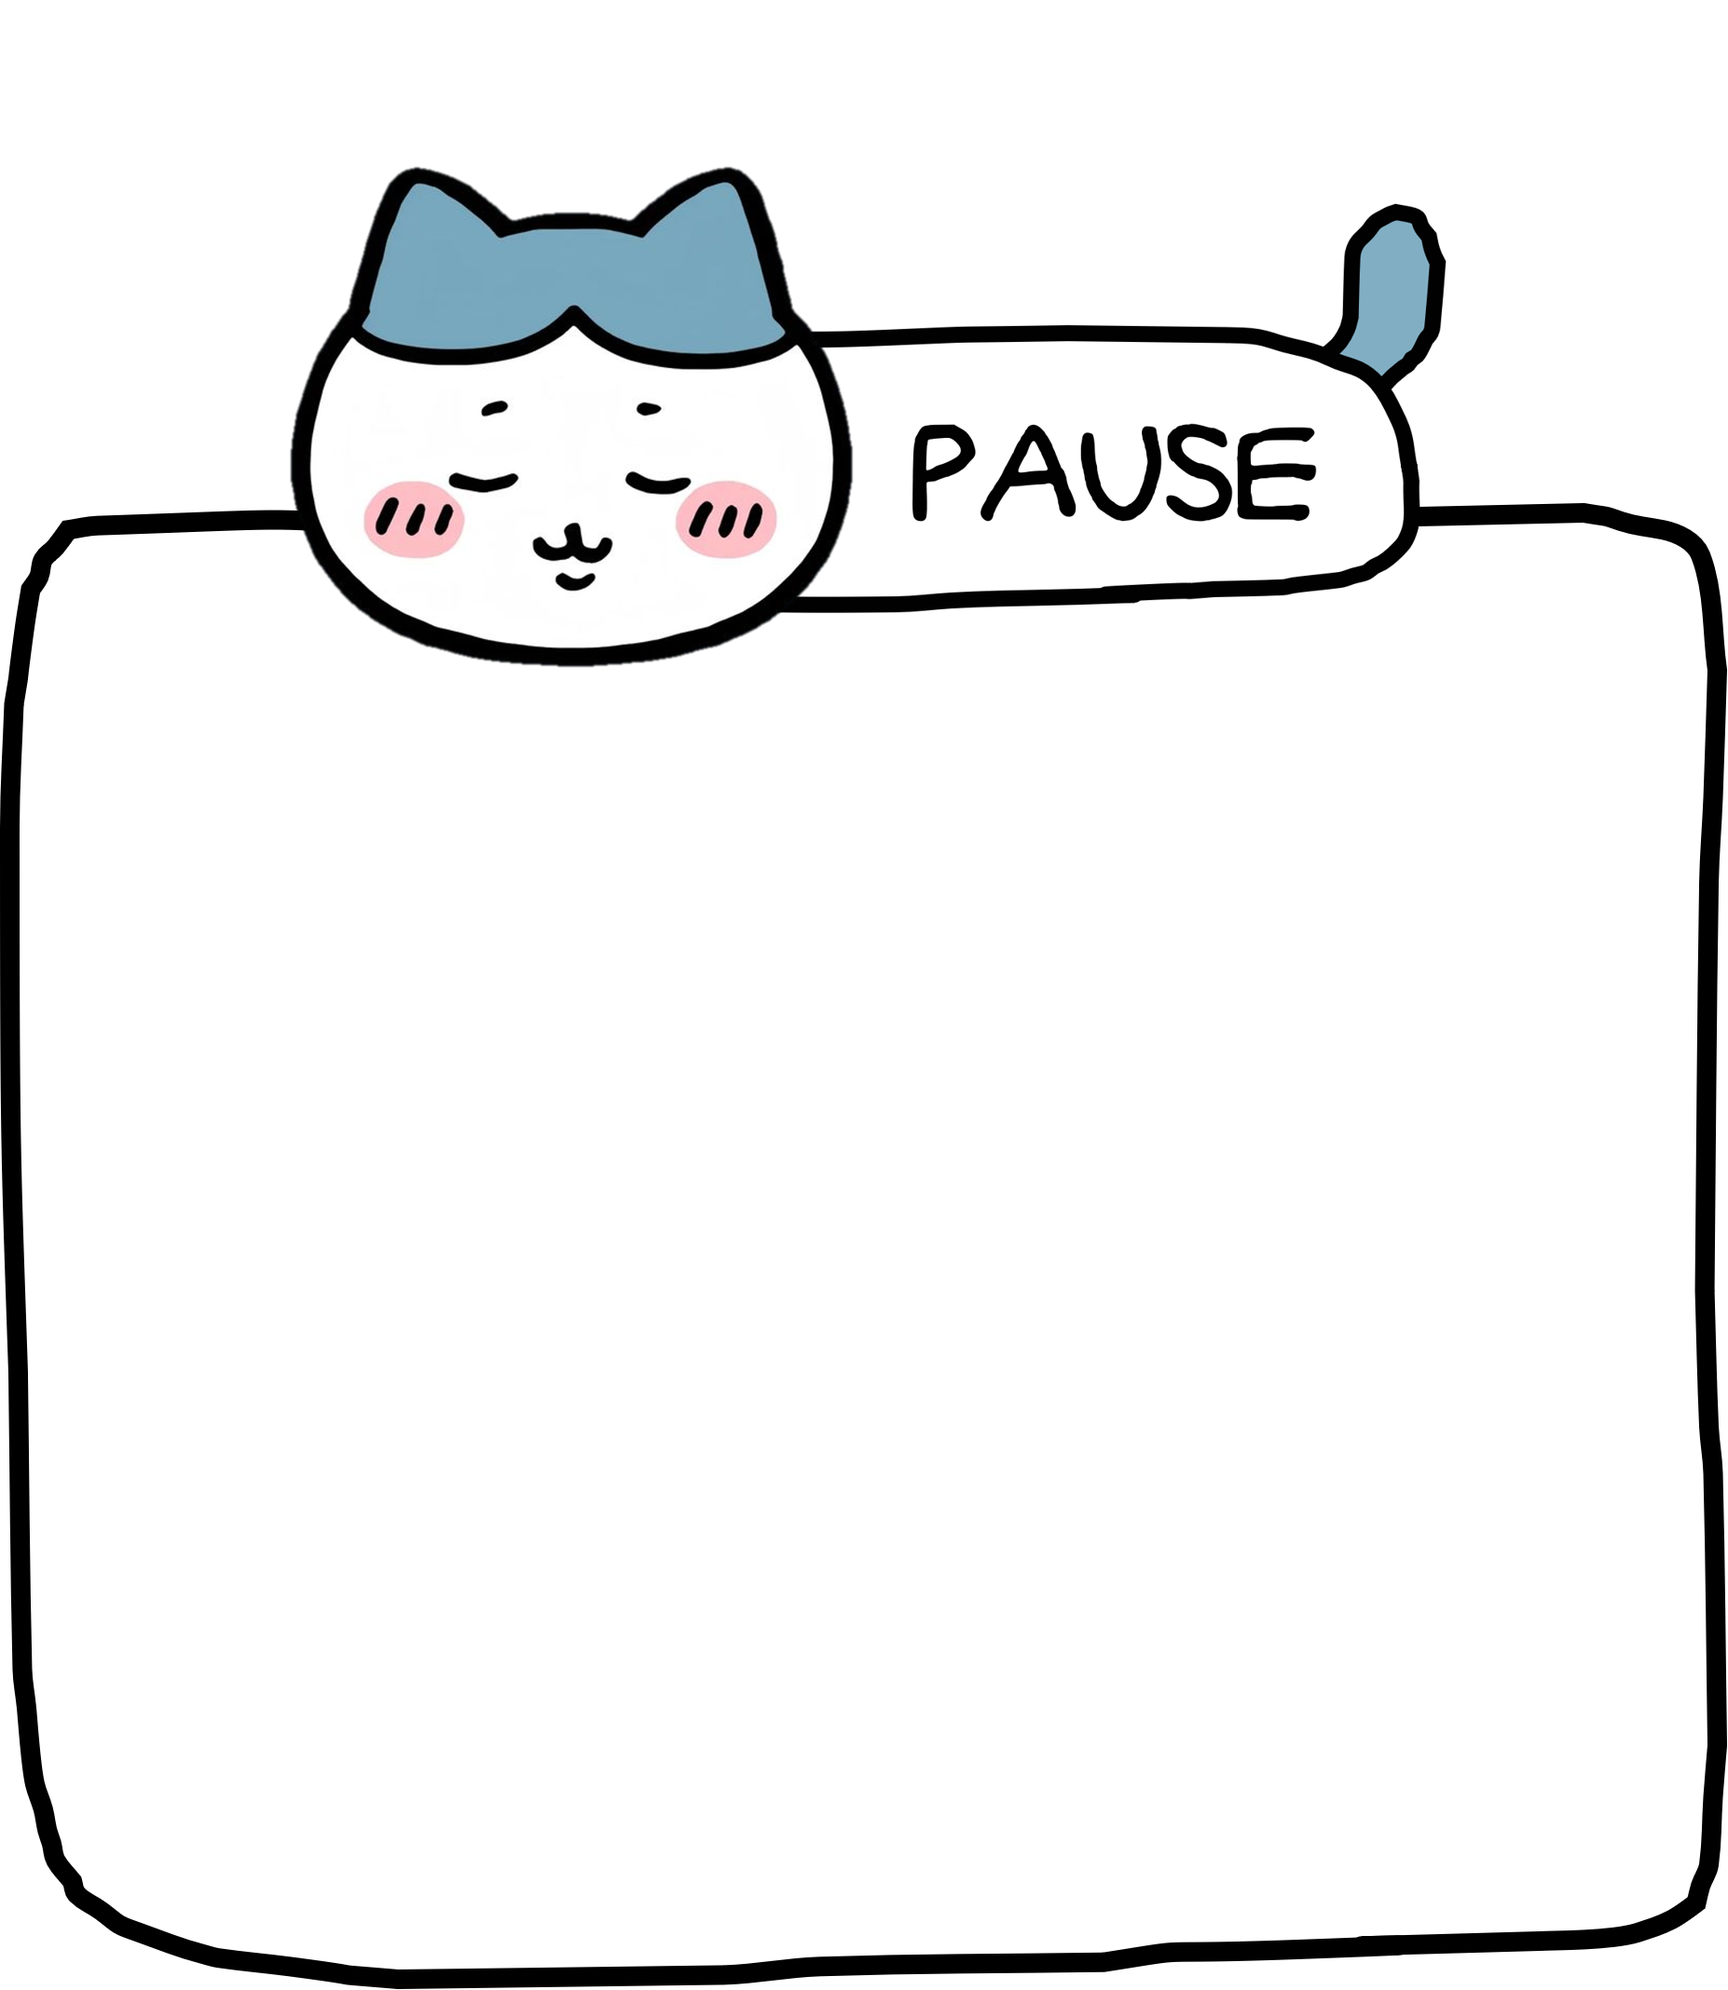
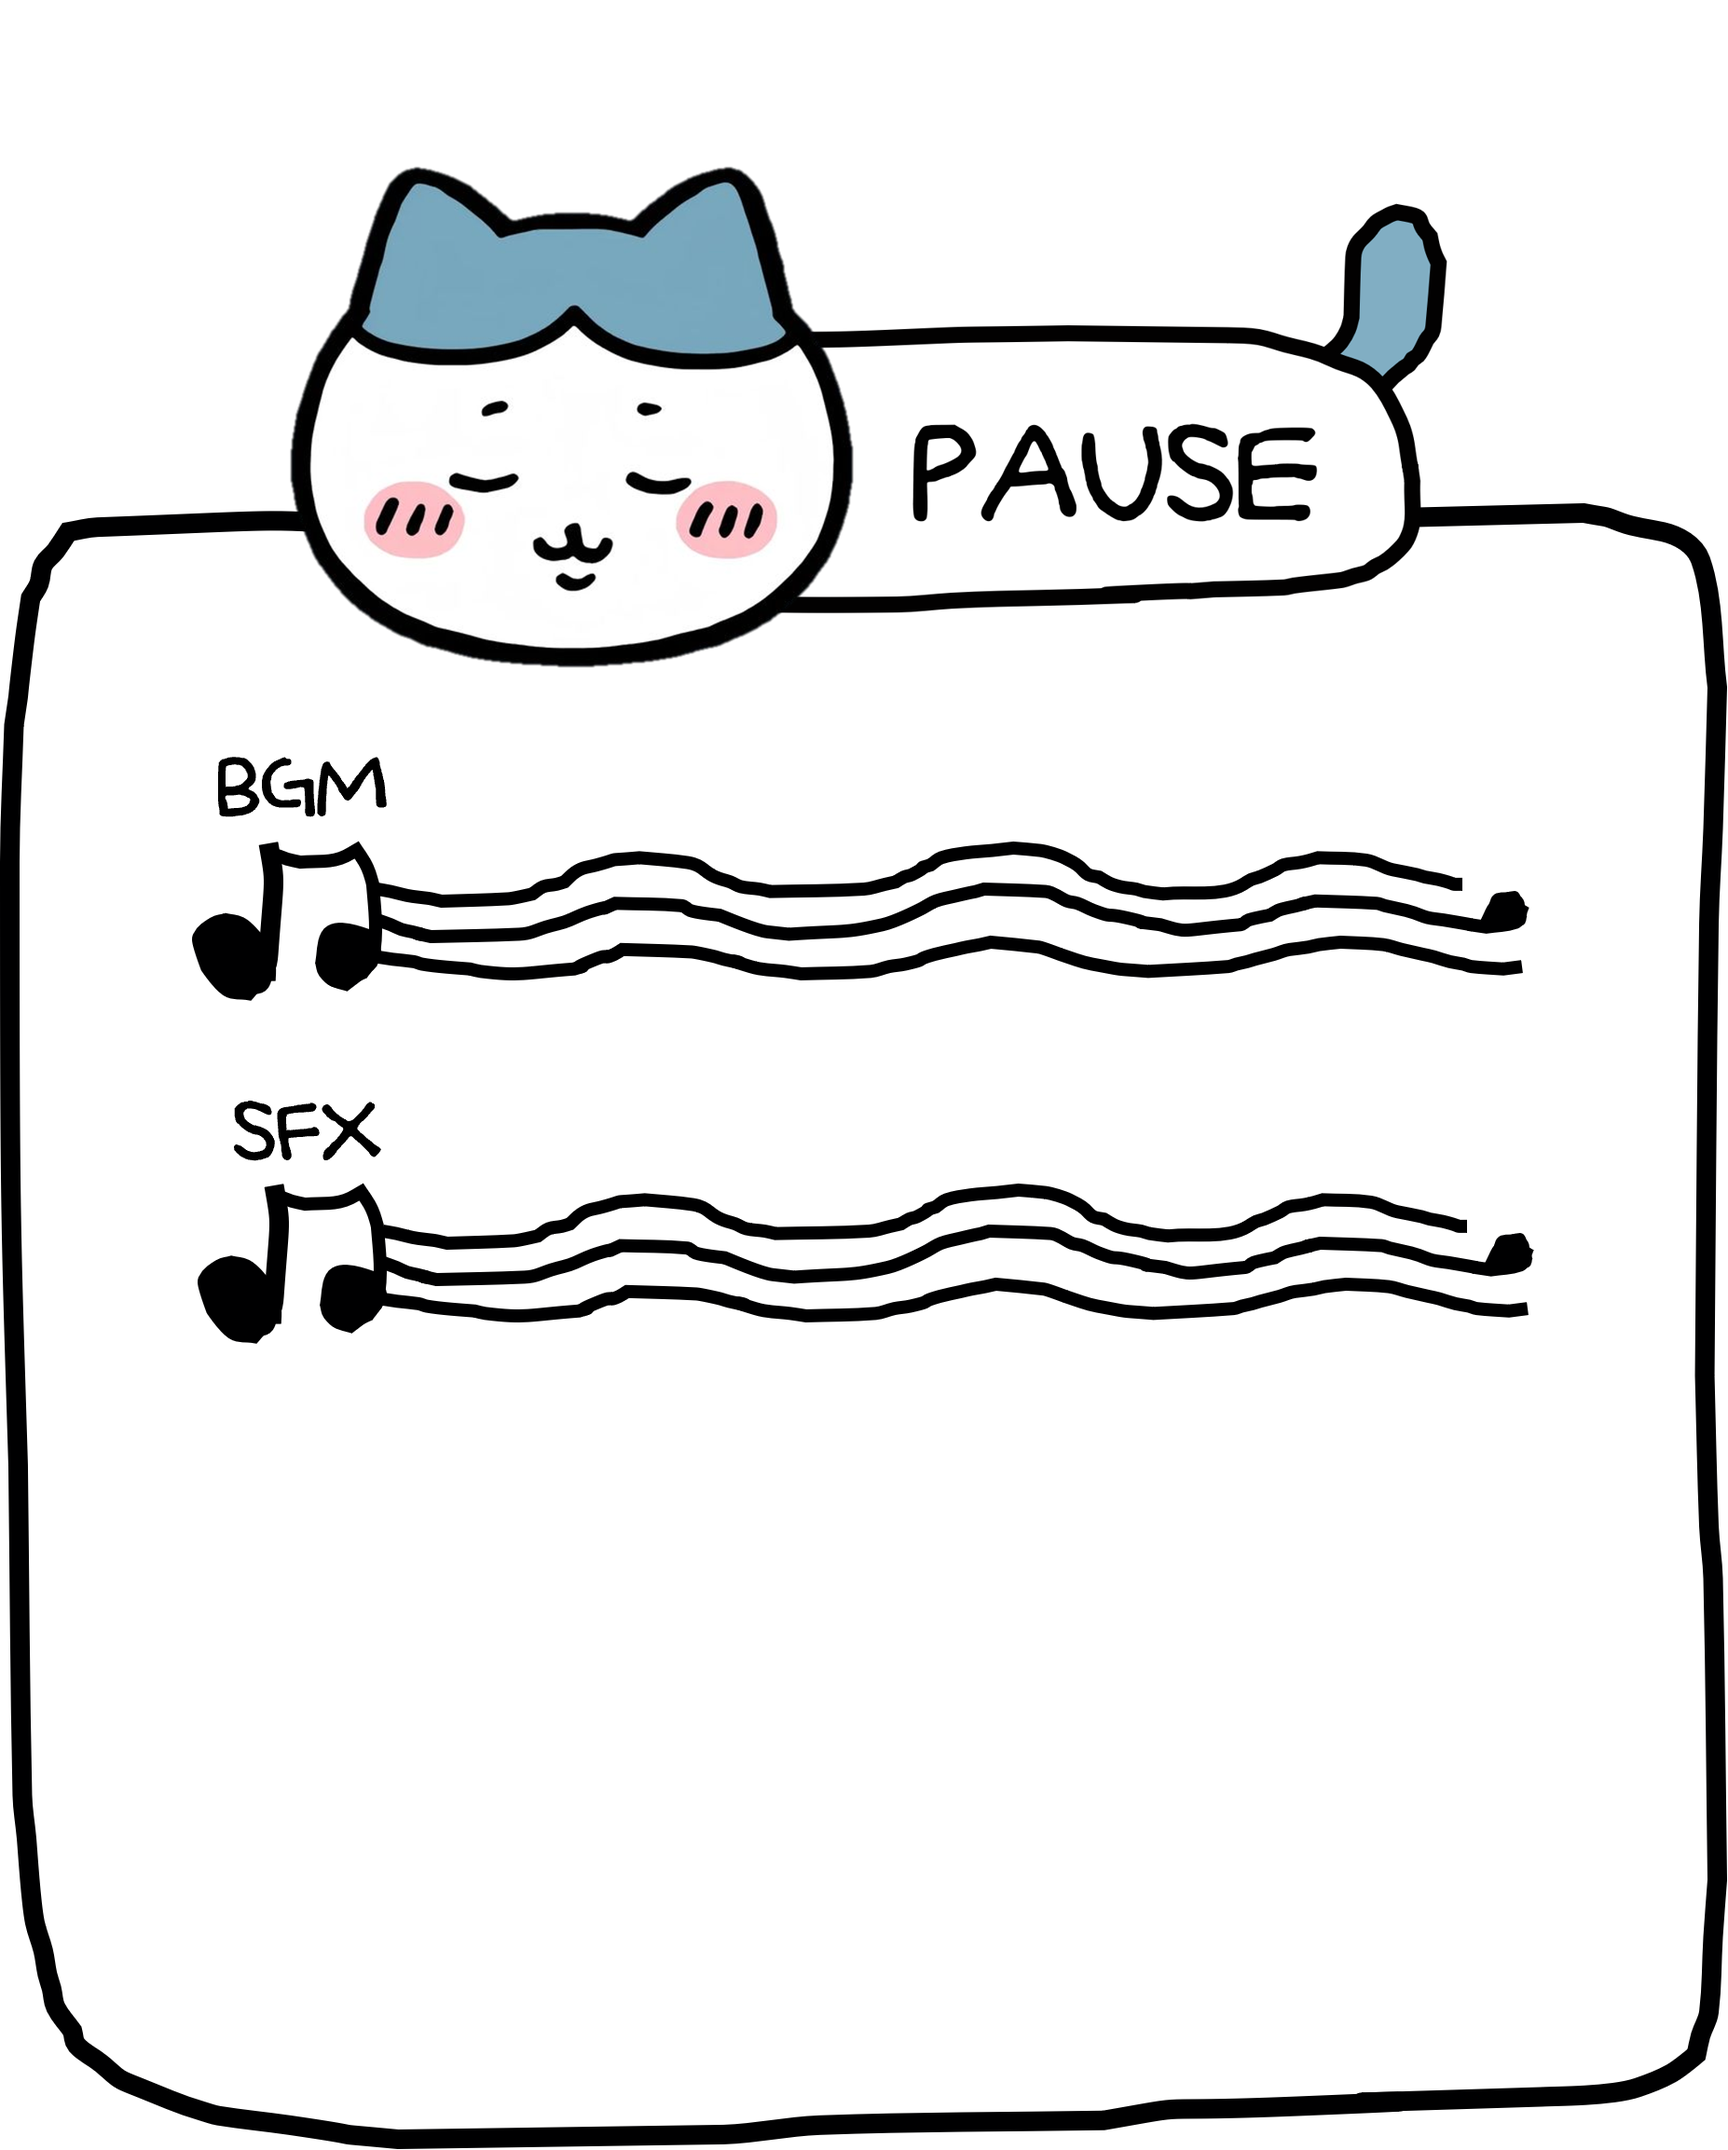
Feat: Title, Pause UI 수정 및 BGM, SFX 음량 슬라이더 추가

diff --git a/Source/Runtime/Script/LuaBindings_HUD.cpp b/Source/Runtime/Script/LuaBindings_HUD.cpp
@@ -129,6 +129,7 @@ void RegisterLuaHUDAPI(sol::environment& Env, UObject* Owner)
 
 	// value = HUDImageSlider(id, trackPath, handlePath, x, y, w, h, handleW, handleH, value [, minU [, maxU]])
 	// 즉시 모드라 값은 Lua가 들고 있다가 매 프레임 넘기고, 돌려받은 값으로 바꾼다.
+	// trackPath가 ""이면 트랙은 그리지 않는다 (배경 이미지에 트랙이 이미 그려져 있을 때). x, y, w, h는 판정 영역으로만 쓴다.
 	Env.set_function("HUDImageSlider",
 		[Owner](const FString& Id, const FString& TrackPath, const FString& HandlePath,
 			float X, float Y, float W, float H, float HandleW, float HandleH, float Value,
@@ -139,7 +140,8 @@ void RegisterLuaHUDAPI(sol::environment& Env, UObject* Owner)
 				return Value;
 
 			UAssetManager& AssetManager = UAssetManager::Get();
-			return HUD->ImageSlider(Id, AssetManager.LoadTexture(TrackPath), AssetManager.LoadTexture(HandlePath),
+			UTexture2D* Track = TrackPath.empty() ? nullptr : AssetManager.LoadTexture(TrackPath);
+			return HUD->ImageSlider(Id, Track, AssetManager.LoadTexture(HandlePath),
 				FVector2(X, Y), FVector2(W, H), FVector2(HandleW, HandleH), Value,
 				MinU.value_or(0.0f), MaxU.value_or(1.0f));
 		});

diff --git a/Source/Runtime/Engine/HUD.h b/Source/Runtime/Engine/HUD.h
@@ -81,13 +81,6 @@ public:
 		Command.Position = Position;
 		Command.Text = Text;
 		Command.FontSize = FontSize;
-
-
-
-
-
-
-
 		Command.Color = Color;
 		Commands.Add(std::move(Command));
 	}
